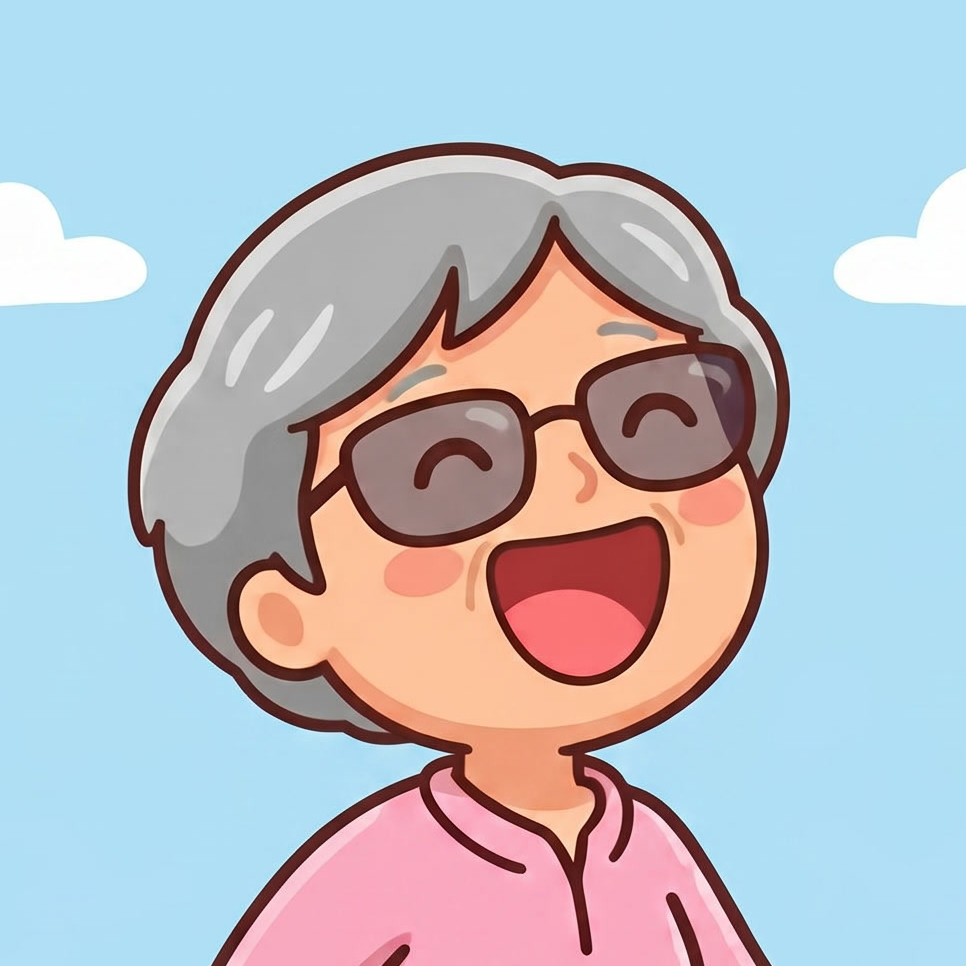
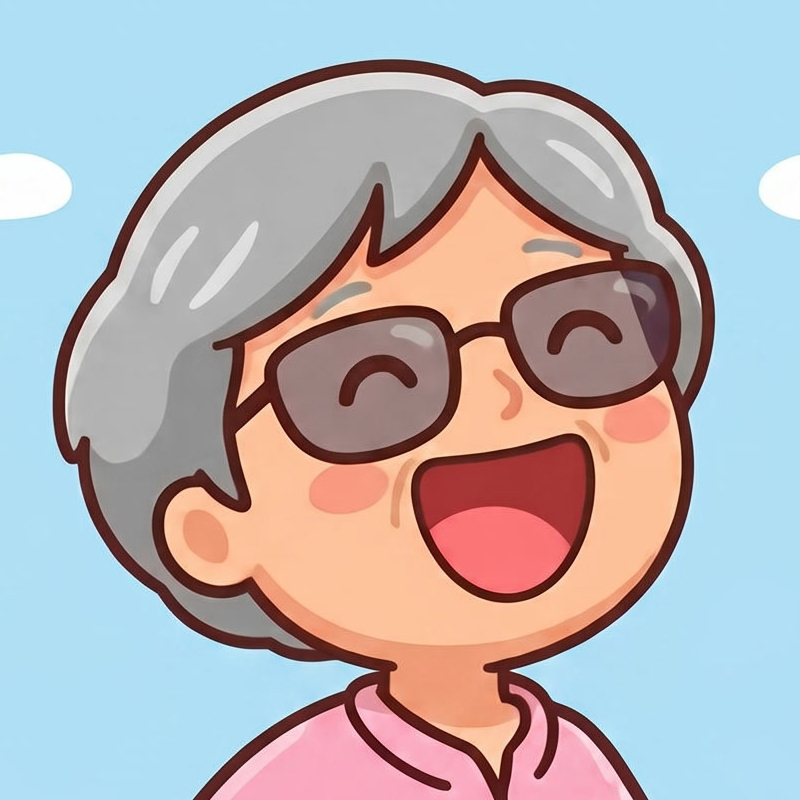
fix bgm playback fallback

diff --git a/index.html b/index.html
@@ -1074,7 +1074,13 @@ function playBgm() {
   } else {
     bgm.volume = BGM_VOLUME; // Fallback for browsers where media volume works normally.
   }
-  return bgm.play();
+  return bgm.play().then(() => {
+    setupBgmGain();
+    if (bgmGain) {
+      bgm.volume = 1;
+      bgmGain.gain.value = BGM_VOLUME;
+    }
+  });
 }
 
 // Called on the first user interaction (browsers block audio until then).
@@ -1083,7 +1089,6 @@ function ensureAudio() {
     try { actx = new (window.AudioContext || window.webkitAudioContext)(); } catch (e) {}
   }
   if (actx && actx.state === 'suspended') actx.resume();
-  setupBgmGain();
   if (!audioStarted) {
     audioStarted = true;
     suppressNextClickSfx = true;